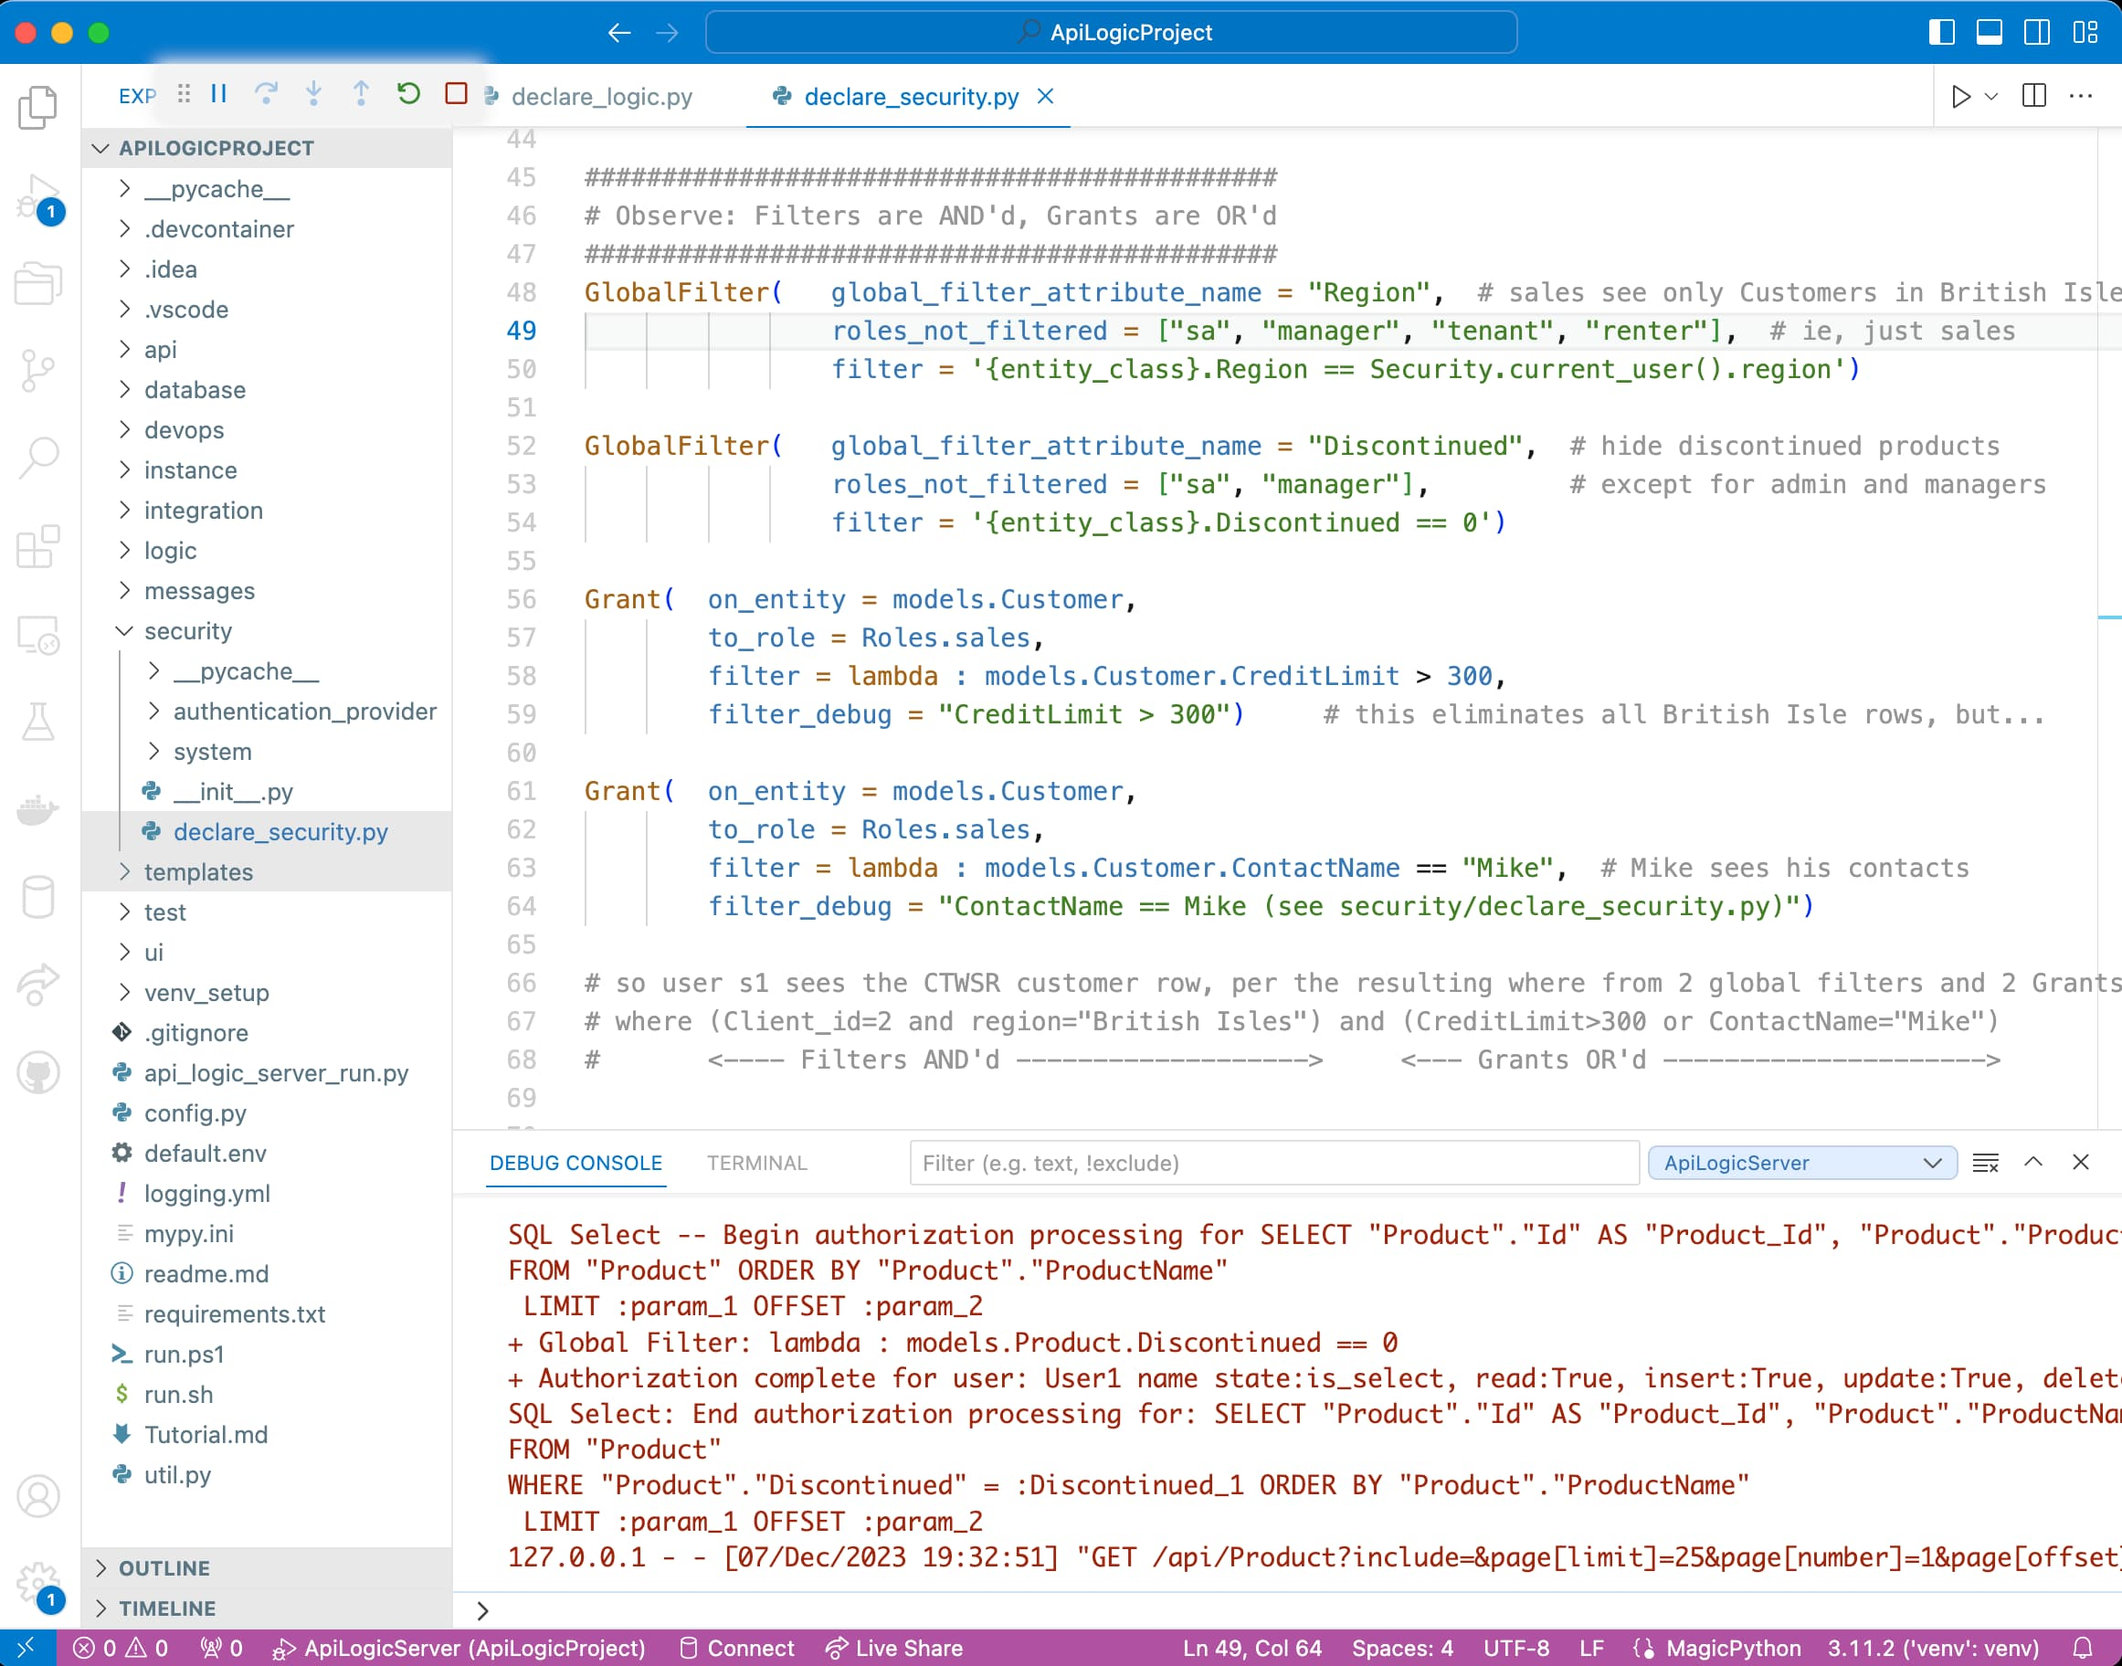
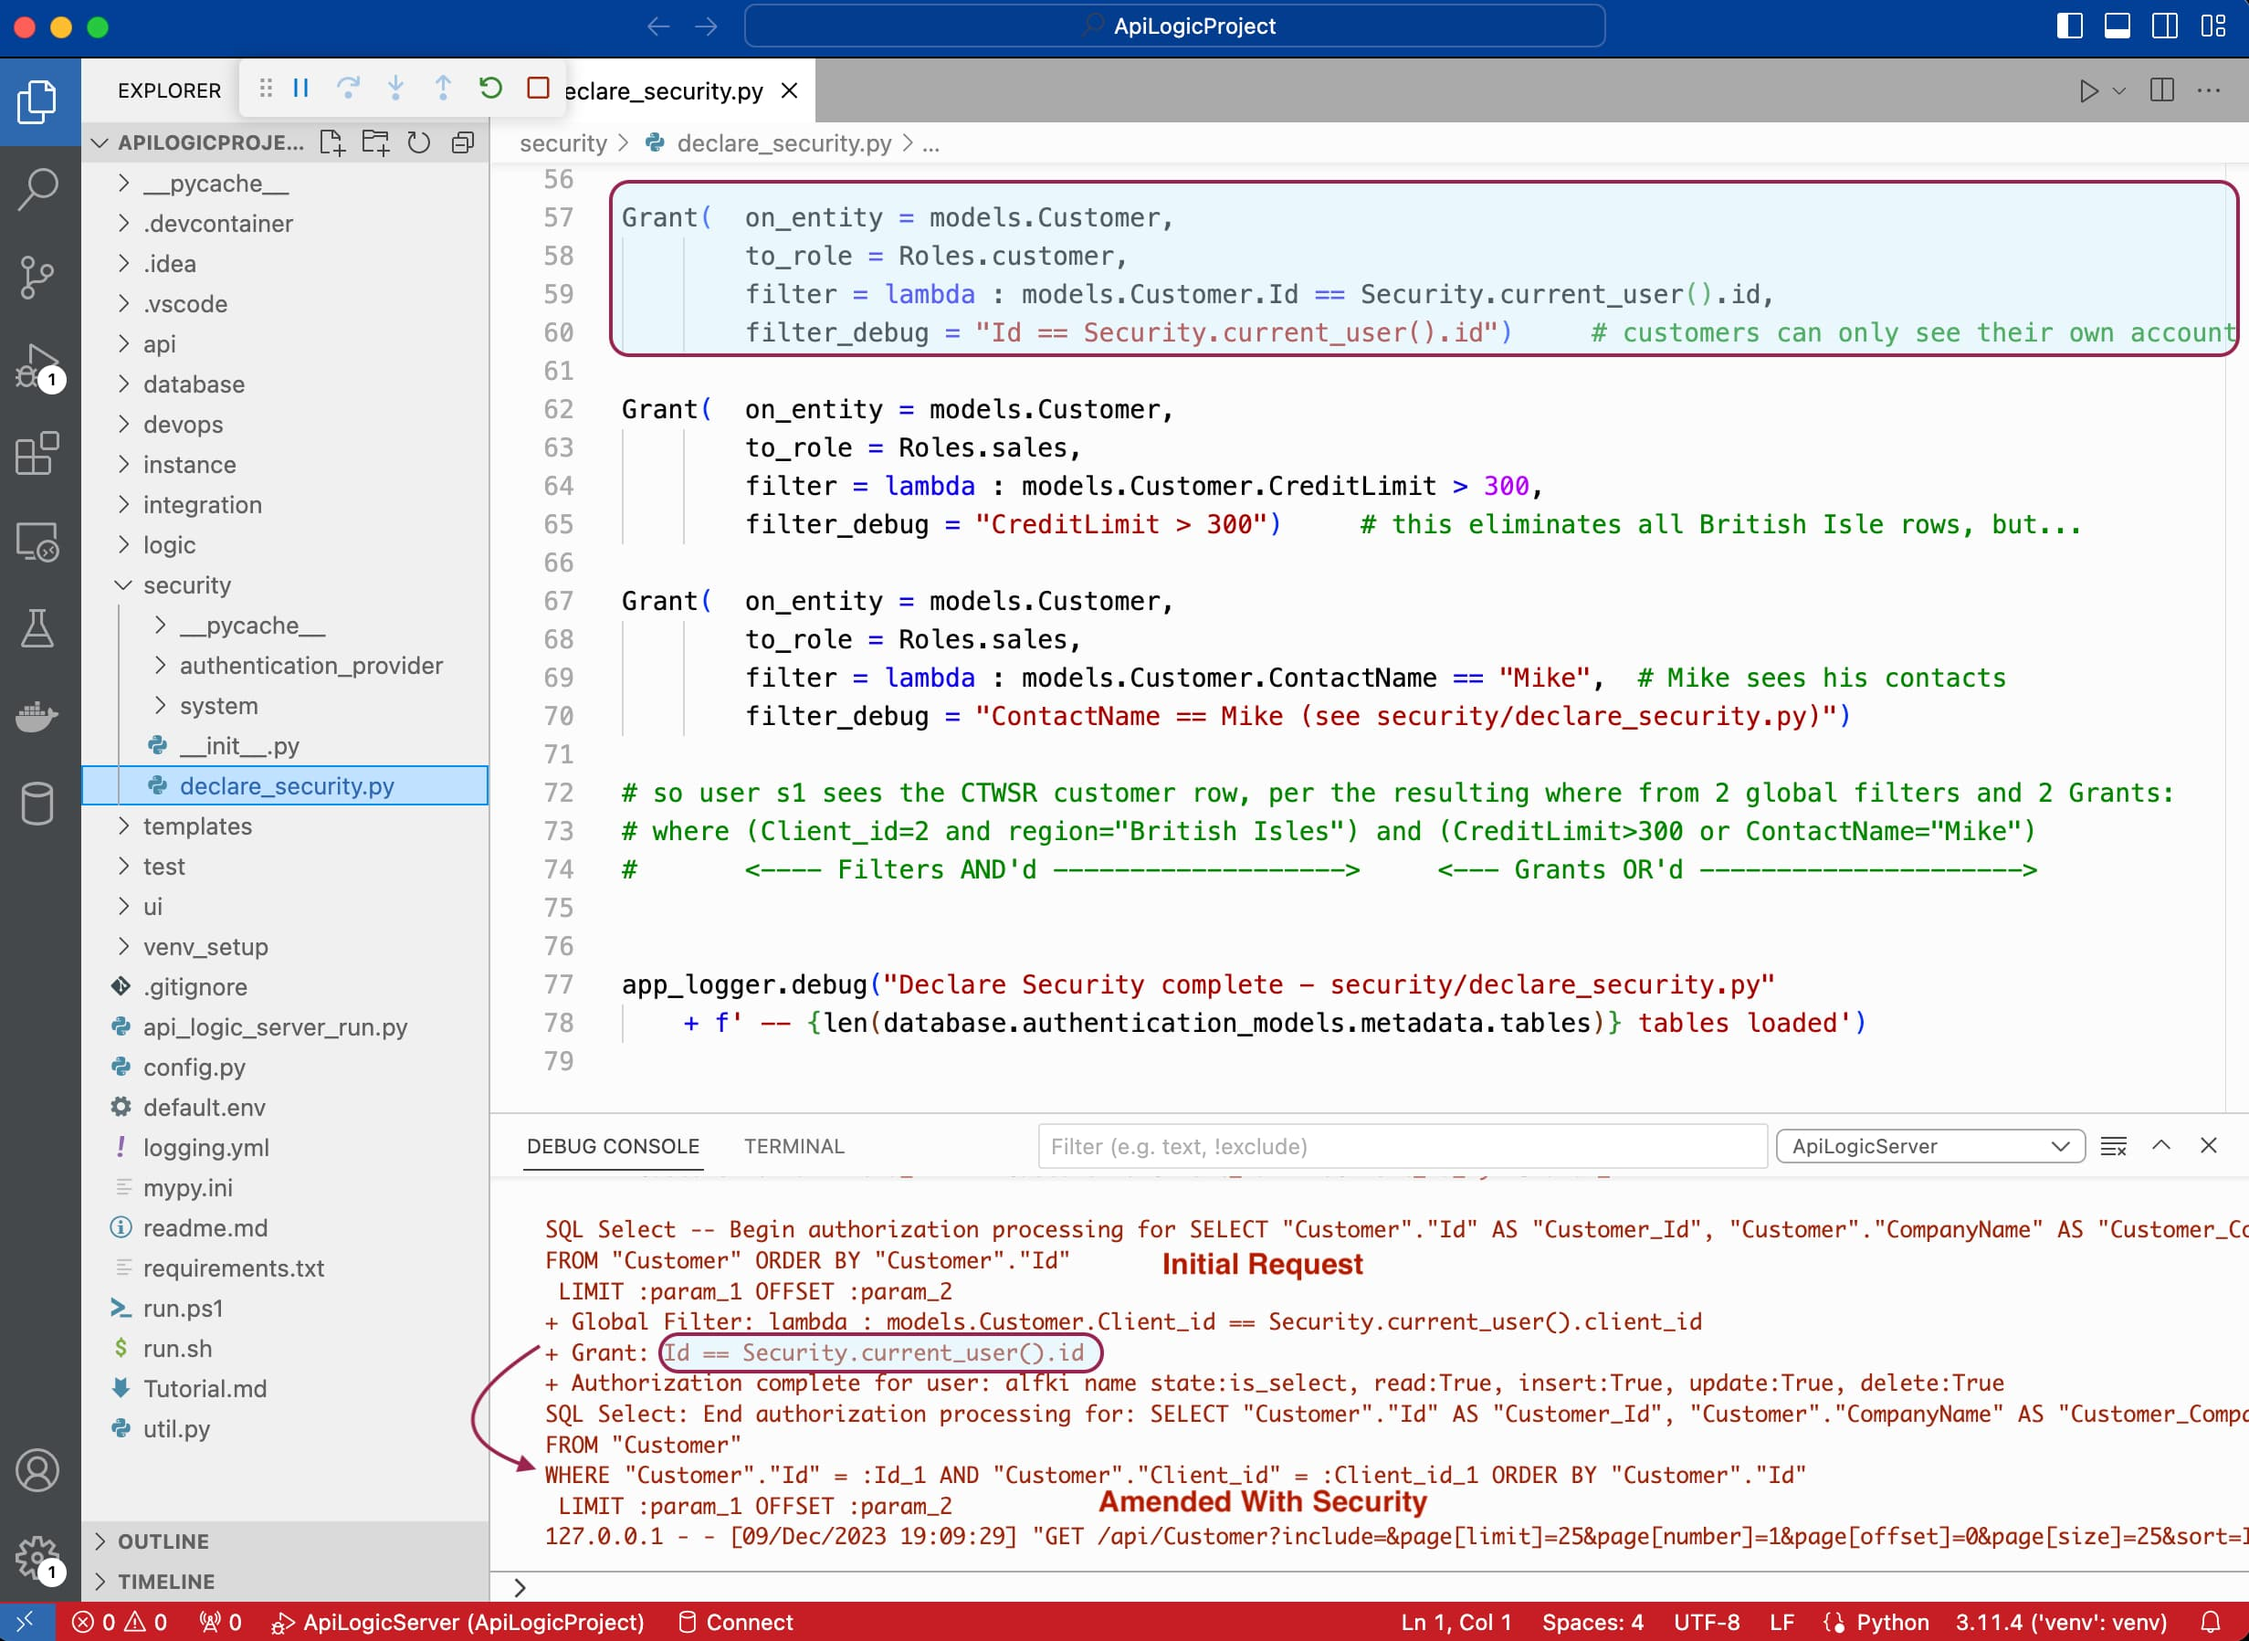
security filtering example

Changed region(s): [[0.0, 0.0, 1.0, 1.0], [0.9608, 0.5609, 0.9918, 0.5921]]

diff --git a/docs/Sample-Integration.md b/docs/Sample-Integration.md
@@ -18,7 +18,7 @@ This app illustrates using IntegrationServices for B2B integrations with APIs, a
 
 The **Northwind API Logic Server** provides APIs *and logic* for both transaction sources:
 
-1. **Self-Serve APIs**, to support ad hoc integration and UI dev, providing security (e.g, only managers see discontinued products)
+1. **Self-Serve APIs**, to support ad hoc integration and UI dev, providing security (e.g, customers see only their account)
 
 2. **Order Logic:** enforcing database integrity and application Integration (alert shipping)
 
@@ -148,17 +148,17 @@ To see security in action:
 
 **2. Start the Admin App:** [http://localhost:5656/](http://localhost:5656/)
 
-**3. Login** as `s1`, password `p`
+**3. Login** as `AFLKI`, password `p`
 
-**4. Click Products**
+**4. Click Customer**
 
 &nbsp;
 
-!!! pied-piper ":bulb: Security: Discontinued Products Filtered"
+!!! pied-piper ":bulb: Security: Customers Filtered"
 
     #### Login, Row Filtering
 
-    Observe you now see fewer Products, per the `GlobalFilter` declared below.  Note the console log at the bottom shows how the filter worked.
+    Observe you now see only customer ALFKI, per the secuity declared below.  Note the console log at the bottom shows how the filter worked.
 
     <img src="https://github.com/ApiLogicServer/Docs/blob/main/docs/images/integration/security-filters.jpg?raw=true">
 
